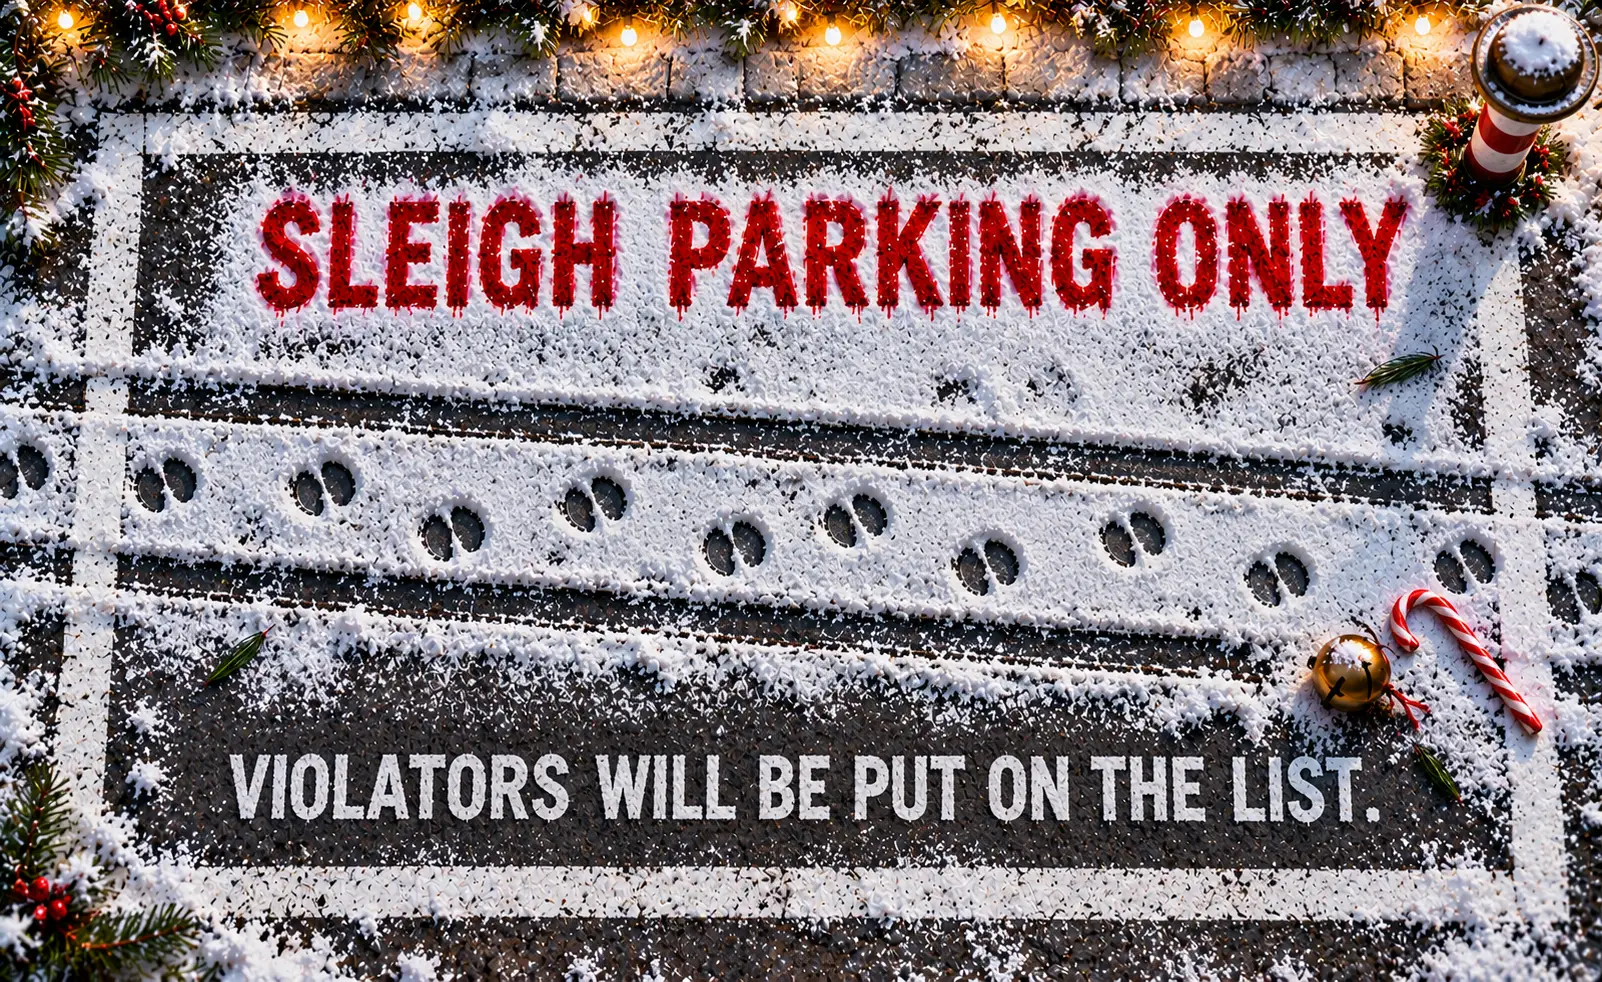
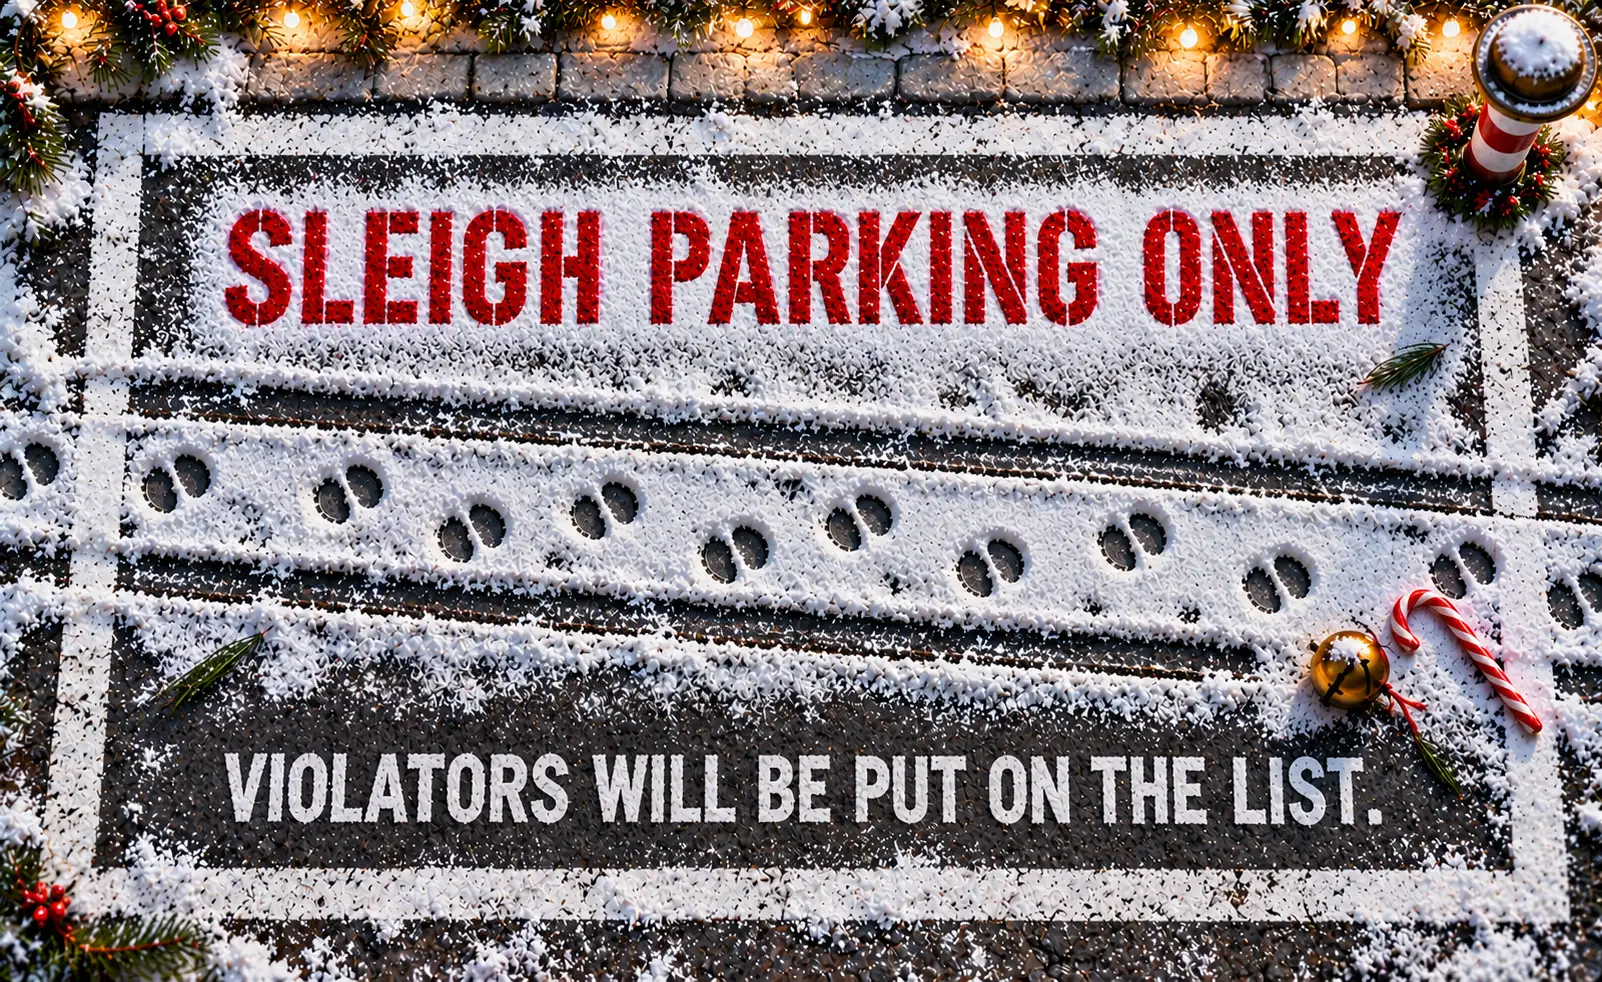
Christmas mats: Sleigh Parking, second version, stencil lettering
Claude-Session: https://claude.ai/code/session_01VPDKP5EJZDEyqUkUM3kqQb

diff --git a/art/christmas-mats/README.md b/art/christmas-mats/README.md
@@ -11,4 +11,4 @@ and `show/<key>.jpg` from each by resizing alone.
 | dear-santa | a child's crayon letter on lined paper, DEAR SANTA, / DEFINE "GOOD" / LOVE, ME, with the crayon, a candy cane and a bitten cookie (Claude's premise, 25 Oct) |
 | yellow-snow | fresh snow from above, sleigh-runner tracks and hoofprints, one patch of yellow snow with a hoofprint in it, the trail running off the edge, a dropped jingle bell: RUDOLPH WAS HERE. / MIND THE YELLOW SNOW. (Claude's premise, 25 Oct) |
 | naughty-list | an open coal-chute hatch in a snowy brick pavement, coal and a shovel at the bottom, a gift tag HELP YOURSELF; NAUGHTY LIST? across the top (Claude's premise, 25 Oct; second version, the letters re-done without drips) |
-| sleigh-parking | a snowy painted parking bay from above, runner marks and hoofprints, a bell and a candy cane: SLEIGH PARKING ONLY / VIOLATORS WILL BE PUT ON THE LIST. (Claude's premise, 25 Oct; the dripping red letters may be redrawn) |
+| sleigh-parking | a snowy painted parking bay from above, runner marks and hoofprints, a bell and a candy cane: SLEIGH PARKING ONLY / VIOLATORS WILL BE PUT ON THE LIST. (Claude's premise, 25 Oct; second version, stencil lettering) |
